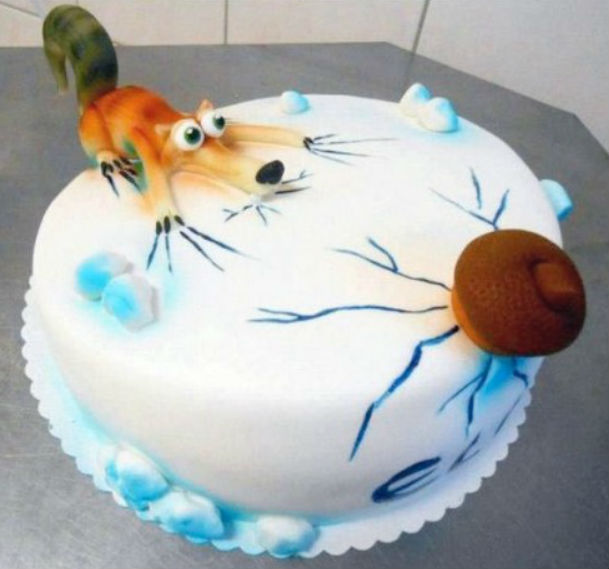
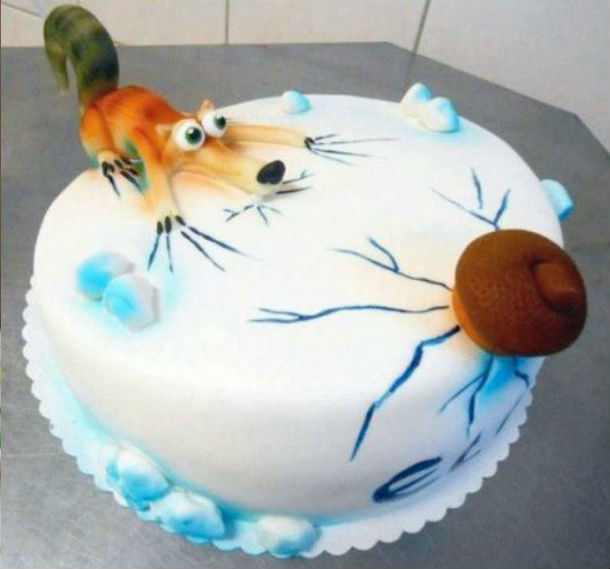
pequeños ajustes

diff --git a/index.html b/index.html
@@ -155,7 +155,7 @@
                     <div style="opacity: 0;" class="link"><span>Acceder</span></div>
                     <div class="blanco_izq"></div>
                     <div class="blanco_der"></div>
-                    <img style="width: 609px;" src="images/imagen_media_1.jpg" alt="imagen media" class="img10">
+                    <img src="images/imagen_media_1.jpg" alt="imagen media" class="img10">
 				</div>
 
 				<div id="box11" class="box box11 medium">
@@ -166,7 +166,7 @@
                     <div style="opacity: 0;" class="link"><span>Acceder</span></div>
                     <div class="blanco_izq"></div>
                     <div class="blanco_der"></div>
-                    <img style="width: 609px;" src="images/imagen_media_2.jpg" alt="imagen media" class="img11">
+                    <img src="images/imagen_media_2.jpg" alt="imagen media" class="img11">
 				</div>
 			</div>
 

diff --git a/css/style.css b/css/style.css
@@ -159,12 +159,14 @@ h4 { font-size: 12px; }
 .box .link span{ padding:0 20px 10px 20px; border-bottom:1px solid #fff }	
 
 
-.blanco_izq{z-index:998;width:5px; position: absolute; left:0; height:100%; background: url(http://theapt.es/ndxz-studio/site/img/border_blanco.png) repeat-y}
-.blanco_der{z-index:998;width:5px; position: absolute; right:0; height:100%; background: url(http://theapt.es/ndxz-studio/site/img/border_blanco.png) repeat-y}
+.blanco_izq{z-index:998;width:5px; position: absolute; left:0; height:100%; background: url(../images/border.png) repeat-y}
+.blanco_der{z-index:998;width:5px; position: absolute; right:0; height:100%; background: url(../images/border.png) repeat-y}
 
 
 .fila .box:first-child .blanco_izq{display:none}
 .fila .box:last-child .blanco_der{display:none}
+
+
 
 /** footer ****/
 footer { 
